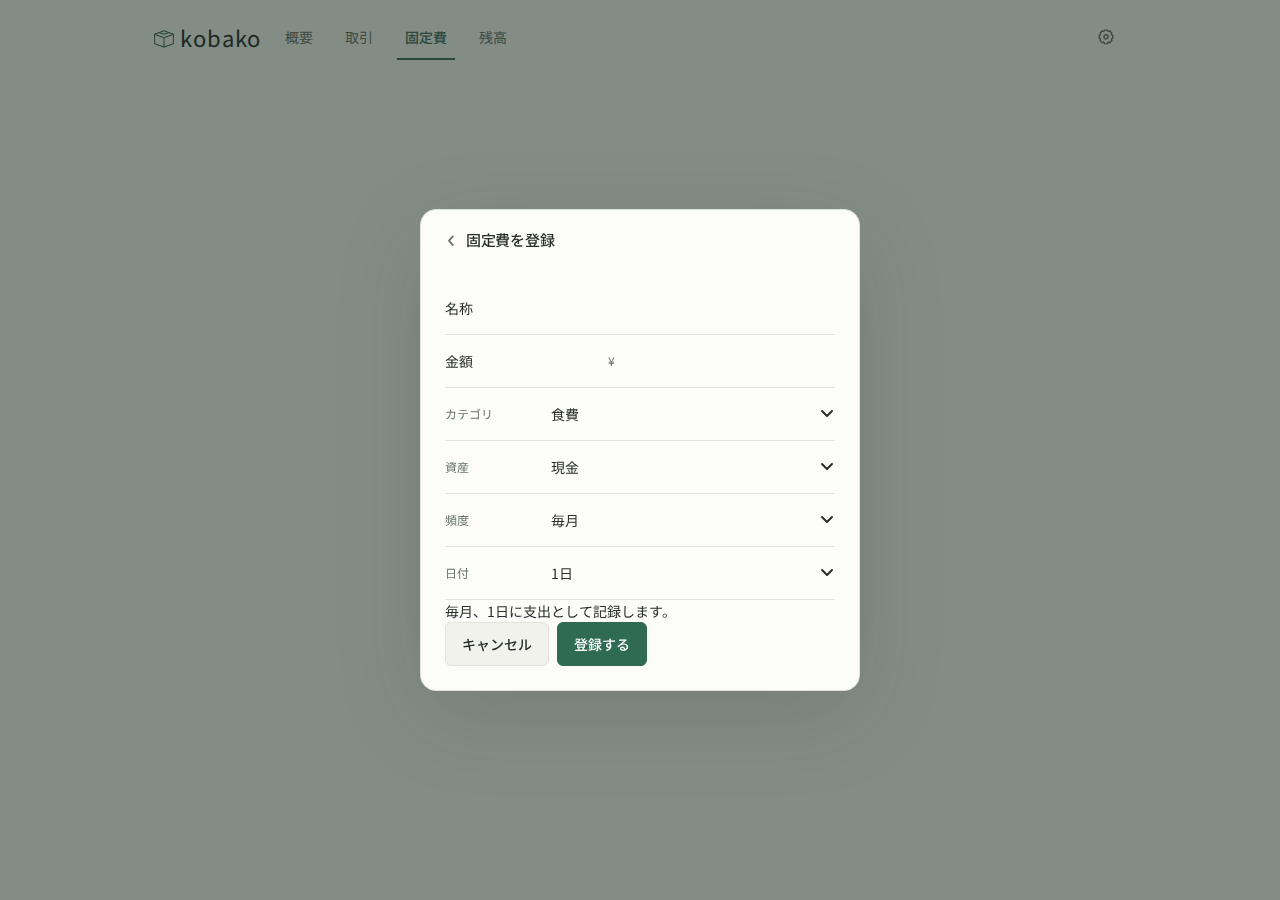
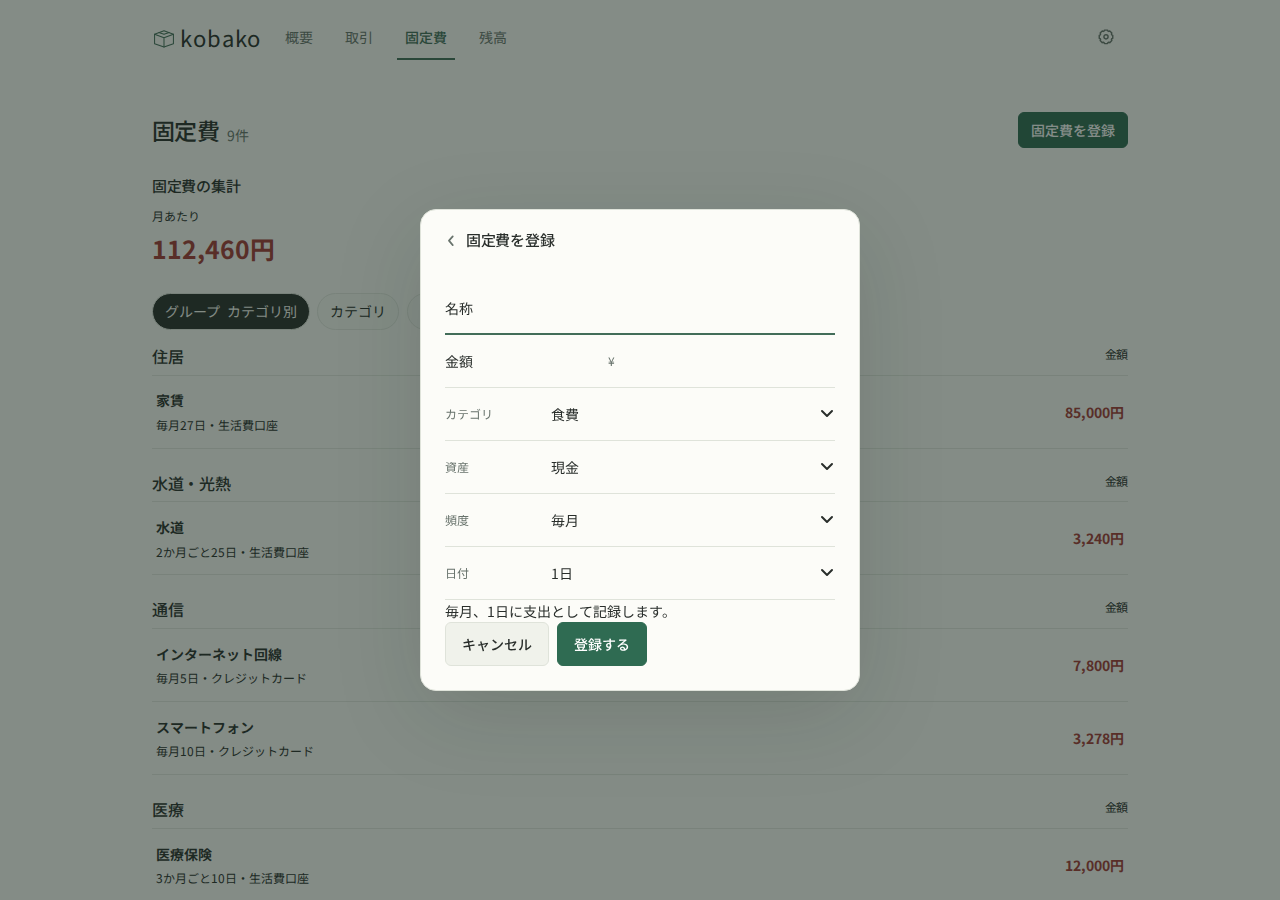
fix: use intercepting fixed cost modals

diff --git a/apps/web/app/fixed-costs/new/page.tsx b/apps/web/app/fixed-costs/new/page.tsx
@@ -1,5 +1,4 @@
-import { listCategories, listActiveManagedAccounts } from '@kobako/db';
-import { OverlayCard } from '../../_components/overlay-card';
+import { currentTokyoMonth, listCategories, listActiveManagedAccounts } from '@kobako/db';
 import { getCurrentHouseholdId, getLedgerDatabase } from '../../../src/lib/ledger-data';
 import { PageHeader } from '../../_components/page-header';
 import { PageShell } from '../../_components/ui';
@@ -30,32 +29,18 @@ export async function NewFixedCostContent({ showCancel = false }: { showCancel?:
         accountId: accounts[0] ? String(accounts[0].id) : '',
         intervalCount: '1',
         intervalUnit: 'month',
-        startMonth: new Date().toISOString().slice(0, 7),
+        startMonth: currentTokyoMonth(),
         day: '1',
       }}
     />
   );
 }
 
-export default async function NewFixedCostPage({
-  searchParams,
-}: {
-  searchParams?: Promise<Record<string, string | string[] | undefined>>;
-}) {
-  const query = (await searchParams) ?? {};
-  const modal = query.modal === '1';
-  const content = <NewFixedCostContent showCancel={modal} />;
-  if (modal) {
-    return (
-      <OverlayCard title="固定費を登録" kind="transaction" autoFocusSelector="#fixed-cost-name">
-        {content}
-      </OverlayCard>
-    );
-  }
+export default function NewFixedCostPage() {
   return (
     <PageShell width="narrow">
       <PageHeader title="固定費を登録" />
-      {content}
+      <NewFixedCostContent />
     </PageShell>
   );
 }

diff --git a/apps/web/app/fixed-costs/[id]/edit/page.tsx b/apps/web/app/fixed-costs/[id]/edit/page.tsx
@@ -1,5 +1,4 @@
 import { notFound } from 'next/navigation';
-import { OverlayCard } from '../../../_components/overlay-card';
 import { listCategories, listActiveManagedAccounts } from '@kobako/db';
 import { getCurrentHouseholdId, getLedgerDatabase } from '../../../../src/lib/ledger-data';
 import { PageHeader } from '../../../_components/page-header';
@@ -56,27 +55,11 @@ export async function EditFixedCostContent({
   );
 }
 
-export default async function EditFixedCostPage({
-  params,
-  searchParams,
-}: {
-  params: Params;
-  searchParams?: Promise<Record<string, string | string[] | undefined>>;
-}) {
-  const query = (await searchParams) ?? {};
-  const modal = query.modal === '1';
-  const content = <EditFixedCostContent params={params} showCancel={modal} />;
-  if (modal) {
-    return (
-      <OverlayCard title="固定費を編集" kind="transaction" autoFocusSelector="#fixed-cost-name">
-        {content}
-      </OverlayCard>
-    );
-  }
+export default function EditFixedCostPage({ params }: { params: Params }) {
   return (
     <PageShell width="narrow">
       <PageHeader title="固定費を編集" />
-      {content}
+      <EditFixedCostContent params={params} />
     </PageShell>
   );
 }

diff --git a/apps/web/e2e/fixed-costs.spec.ts b/apps/web/e2e/fixed-costs.spec.ts
@@ -1,6 +1,19 @@
 import { expect, test } from '@playwright/test';
 
 test.describe('固定費', () => {
+  test('一覧から登録・編集を開くとdialog、直接URLはページを表示する', async ({ page }) => {
+    await page.goto('/fixed-costs');
+    await page.getByRole('link', { name: '固定費を登録' }).click();
+    await expect(page.locator('#entry-dialog[data-card-pattern="overlay-card"]')).toBeVisible();
+    await page.getByRole('button', { name: '固定費を登録 — 戻る' }).click();
+    await expect(page.locator('#entry-dialog')).toHaveCount(0);
+    await page.getByRole('link', { name: /家賃/ }).click();
+    await expect(page.locator('#entry-dialog[data-card-pattern="overlay-card"]')).toBeVisible();
+    await page.getByRole('button', { name: '固定費を編集 — 戻る' }).click();
+    await page.goto('/fixed-costs/new');
+    await expect(page.locator('#entry-dialog')).toHaveCount(0);
+  });
+
   test('一覧に代表的な固定費と集計を表示する', async ({ page }) => {
     await page.goto('/fixed-costs');
     await expect(page.getByRole('heading', { name: /^固定費\s*\d+件$/ })).toBeVisible();

diff --git a/apps/web/app/fixed-costs/fixed-cost-list.tsx b/apps/web/app/fixed-costs/fixed-cost-list.tsx
@@ -1,6 +1,6 @@
 'use client';
 
-import Link from 'next/link';
+import { PrefetchLink } from '../_components/prefetch-link';
 import { useEffect, useMemo, useState } from 'react';
 import type { ListedFixedCost } from '@kobako/db';
 import { formatYen } from '../../src/lib/format';
@@ -148,12 +148,12 @@ export function FixedCostList({ rows }: { rows: readonly ListedFixedCost[] }) {
             <ul>
               {items.map((row) => (
                 <li key={row.id} className={styles.row}>
-                  <Link href={`/fixed-costs/${row.id}/edit?modal=1`}>
+                  <PrefetchLink href={`/fixed-costs/${row.id}/edit`} scroll={false}>
                     <span className={styles.name}>{row.name}</span>
                     <span className={styles.meta}>
                       {frequencyLabel(row)}・{row.accountName}
                     </span>
-                  </Link>
+                  </PrefetchLink>
                   <strong>{formatYen(row.amount)}</strong>
                 </li>
               ))}

diff --git a/apps/web/app/fixed-costs/page.tsx b/apps/web/app/fixed-costs/page.tsx
@@ -22,7 +22,7 @@ export default async function FixedCostsPage() {
         title="固定費"
         count={`${rows.length}件`}
         actions={
-          <ActionLink href="/fixed-costs/new?modal=1" variant="primary">
+          <ActionLink href="/fixed-costs/new" variant="primary" scroll={false}>
             固定費を登録
           </ActionLink>
         }

diff --git a/apps/web/app/@modal/(.)fixed-costs/[id]/edit/loading.tsx b/apps/web/app/@modal/(.)fixed-costs/[id]/edit/loading.tsx
@@ -1,0 +1,5 @@
+import { CardSkeleton } from '../../../../_components/card-skeleton';
+
+export default function Loading() {
+  return <CardSkeleton label="固定費を読み込み中" />;
+}

diff --git a/apps/web/app/@modal/(.)fixed-costs/new/loading.tsx b/apps/web/app/@modal/(.)fixed-costs/new/loading.tsx
@@ -1,0 +1,5 @@
+import { CardSkeleton } from '../../../_components/card-skeleton';
+
+export default function Loading() {
+  return <CardSkeleton label="固定費を読み込み中" />;
+}
